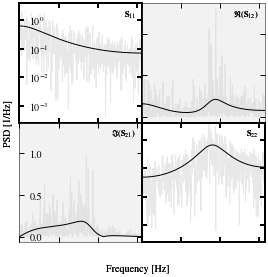
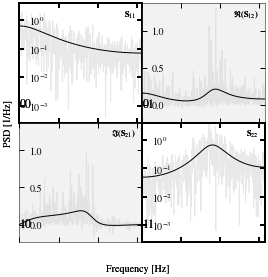
add fixes

diff --git a/src/sgvb_psd/postproc/plot_psd.py b/src/sgvb_psd/postproc/plot_psd.py
@@ -156,6 +156,8 @@ def _format_spines(
     if xlims is None:
         xlims = axes[0, 0].get_xlim()
 
+
+    # formatting for spline axes
     for i in range(p):
         for j in range(p):
             ax = axes[i, j]
@@ -199,9 +201,26 @@ def _format_spines(
                 if off_symlog:
                     ax.set_yscale("symlog", linthresh=sylmog_thresh)
 
-            # turn off xticks-LABELS for all but the bottom row
-            if i != p - 1:
+    for i in range(p):
+        for j in range(p):
+            ax = axes[i, j]
+            ax.annotate(
+                f"{i}{j}", xy=(0.1, 0.1),
+                xycoords="axes fraction", ha="right", va="bottom", fontsize=12)
+
+            # turn off yticks-LABELS for all but the left column
+            if i != p-1:
                 ax.set_xticklabels([])
+
+
+
+            # # turn off xticks-LABELS for all but the bottom row
+            # if i != p - 1:
+            #     ax.set_xticklabels([])
+            # else:
+            #     print(f"Xticks on for {i}, {j}")
+            #     ax.tick_params(axis="x", direction="in", pad=-10)
+
 
 
 def _format_text(axes, channel_labels=None, **kwargs):

diff --git a/src/sgvb_psd/optimal_psd_estimator.py b/src/sgvb_psd/optimal_psd_estimator.py
@@ -63,9 +63,6 @@ class OptimalPSDEstimator:
         if seed is not None:
             set_seed(seed)
 
-        if fmax_for_analysis is None:
-            fmax_for_analysis = fs / 2
-
         self.N_theta = N_theta
         self.N_samples = N_samples
         self.nchunks = nchunks
@@ -291,15 +288,10 @@ class OptimalPSDEstimator:
             # the length per chunk is odd
             self._freq = self._freq[0 : int((n - 1) / 2)]
 
-        # Check if duration == 1
-        if self.duration == 1:
-            fmax_idx = int(
-                self.fmax_for_analysis
-            )  # Set fmax_idx to fmax_for_analysis
-        else:
+        if self.fmax_for_analysis != None:
             fmax_idx = np.searchsorted(self._freq, self.fmax_for_analysis)
+            self._freq = self._freq[0:fmax_idx]
 
-        self._freq = self._freq[0:fmax_idx]
         return self._freq
 
     @property

diff --git a/tests/test_end_to_end.py b/tests/test_end_to_end.py
@@ -39,11 +39,11 @@ def test_var_psd_generation(plot_dir):
         duration=1,
         ntrain_map=300,
         x=var2_data.data,
-        max_hyperparm_eval=2,
+        max_hyperparm_eval=1,
         fs=2 * np.pi,
         seed=0,
     )
-    psd_all, psd_quantiles = optim.run()
+    optim.run()
     optim.plot(
         true_psd=[var2_data.psd, var2_data.freq],
         off_symlog=False,

diff --git a/tests/test_et.py b/tests/test_et.py
@@ -53,6 +53,7 @@ def test_et(plot_dir):
         seed=0,
         lr_range=(0.002, 0.003),
     )
+    optim.run()
 
     kwargs = dict(
         channel_labels="XYZ",
